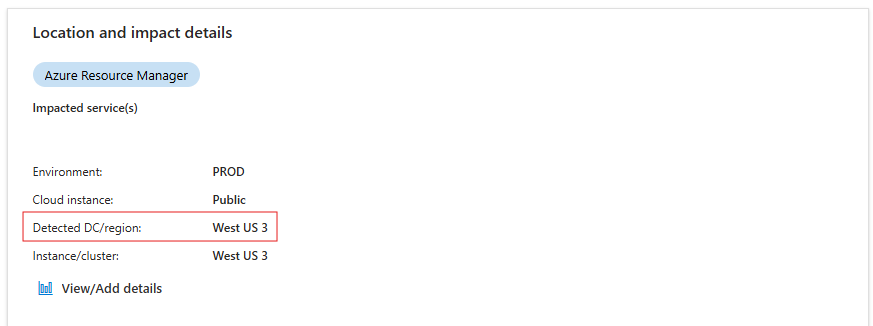
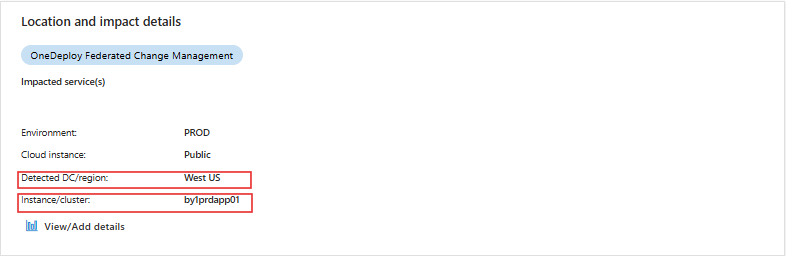
Merged PR 10603263: Updates to ICMChangeInsights for ICM Location update steps.
- Updating to provide steps for updating monitors to map location in ICM
- Updated images, fixed wordings

#### Page view by running `docfx docfx.json`
![image.png](https://msazure.visualstudio.com/b32aa71e-8ed2-41b2-9d77-5bc261222004/_apis/git/repositories/8f46fdc5-c5a3-4c9c-b3a0-dd6344227d72/pullRequests/10603263/attachments/image.png)

![image (2).png](https://msazure.visualstudio.com/b32aa71e-8ed2-41b2-9d77-5bc261222004/_apis/git/repositories/8f46fdc5-c5a3-4c9c-b3a0-dd6344227d72/pullRequests/10603263/attachments/image%20%282%29.png)

----
#### AI description  (iteration 1)
#### PR Classification
Documentation update to provide detailed steps for mapping location information in ICM.

#### PR Summary
This pull request updates the documentation to include detailed steps for mapping location information in ICM for both V1 and V2 monitors.
- Added a new guide in `MappingLocationinICM.md` for providing impacted location details in ICM.
- Removed outdated location mapping instructions from `ChangeInsights.md`.
- Updated `toc.yml` to include the new `MappingLocationinICM.md` file.

diff --git a/enghub/ICMChangeInsights/MappingLocationinICM.md b/enghub/ICMChangeInsights/MappingLocationinICM.md
@@ -1,0 +1,43 @@
+## ICM Location Attributes
+
+**Change Insights** uses the below fields in ICM incident to understand the impacted location and provide relevant changes for location.
+- <ins>*Detected DC/Region*</ins> -> to derive region, datacenter for the incident
+- <ins>*Instance/Cluster*</ins> -> to derive granular locations (like - cluster, pfEnvironment, node, tor, vm, etc.)
+
+> :construction: For each incident these fields are present under `Impact Assessment` tab -> `Location and impact details` section. </br>![alt text](media/DetectedRegionDC.png)
+
+> :rotating_light: **Change Insights** uses the most granular location provided in the above fields to show changes. <ins>Hence more granular the location, more relevant the changes will be.</ins>
+
+## Populate standard values in ICM Location Attributes for monitor raised incidents.
+
+### MDM Monitors
+
+Please follow the below steps:
+1. If the identified action item is <span style="background-color:rgb(146, 195, 83)">`NoAction`</span> or <span style="background-color:rgb(108, 184, 246)">`PendingAnalysis`</span>, then no action is required from the owning team.
+We are continuously try to increase our coverage for <span style="background-color:rgb(108, 184, 246)">`PendingAnalysis`</span> monitors to reduce the manual effort required by the owning team to investigate & update the ICM mapping.
+
[1 lines of base64/hex data omitted]
+then you need to emit/update at-least one underlying metric to contain `Region` dimension.
+Please refer to [official Geneva documentation for emitting metrics](https://eng.ms/docs/products/geneva/metrics/overview).  Then proceed to step **3** for updating the ICM Mapping on the monitor.  
+
+    > :rotating_light: Region must follow the standardized values provided here [FCM Regions](https://dataexplorer.azure.com/clusters/https%3a%2f%2ffcmdata.kusto.windows.net/databases/FCMKustoStore?query=H4sIAAAAAAAEAHPOSMxLT3WtKMjJL0otig%2fOzC3IyUzLTE3xSy0pzy%2fKDskvyM%2fJT6%2bsUSjPSC1KVfDJT04syczPC6ksSFWwtVVQKkpNB3KVeLlqFFIyi0sy85JL4Io8UwAqR0WoXwAAAA%3d%3d)
+ 
+1. If you have added a new dimension to the underlying metric of the monitor or the identified action item is <span style="background-color:rgb(255, 200, 62)">`MapMDMDimensionToICMLocation`</span>, 
+then identify which dimension in the monitor represents a standard value by going through the `MonitorDimensionMappings` column of the dashboard.
+
+    > :construction: Any dimension key-value pair which does not contain `DefaultMapping` is identified as a standard location by our system.</br>This dimension should now be correctly mapped to ICM Location Attributes while creating incidents.
+
+1. Refer to the below table to find ICM mapping configuration.
+    
+    | MDM_v1 | MDM_v2 |
+    | --- | --- |
+    | Go to section <ins>*"5. IcM Customization"*</ins> and *"Add Metadata"*. </br></br> ![alt text](media/mdm_v1_monitor_icm_mapping.png) | Got to section <ins>*"3. Customize Incident"*</ins> -> *"3.1 Incident Metadata"* and *"+Metadata"* </br></br> ![alt text](media/mdm_v2_monitor_icm_mapping.png) |
+
+1. Use the below table to map the dimension to their respective ICM Location Attributes.
+    
+    > :warning: Replace `IdentifiedDimensionKey` with the dimension key identified in step *3*.
+    
+    | ICM Location Attribute | ICM Metadata Key| Monitor Dimension | Conditions | 
+    | --- | --- | --- | --- |
+    | Detected DC/Region | Icm.OccurringLocation</br>.DataCenter | `{Monitor.Dimension.IdentifiedDimensionKey}` | If identified dimension is of type **region** or **datacenter**. |
+    | Instance/Cluster   | Icm.OccurringLocation</br>.DeviceName | `{Monitor.Dimension.IdentifiedDimensionKey}` | If identified dimension is of type cluster, node, tor, vm, etc. |

diff --git a/enghub/ICMChangeInsights/ChangeInsights.md b/enghub/ICMChangeInsights/ChangeInsights.md
@@ -64,58 +64,7 @@ The following location types are yet to be supported:
 | Cosmosdb Federation |
 
 
-## Detailed guide to provide "Where"(impacted location) in ICM
 
-### Service using EV2 (Above ARM services) for deployments
-
-#### Monitor Raised incidents -Detected DC/Region
-
-To identify the impacted region for the incident, ChangeInsights relies on Impacted Regions in ICM
-
-##### How to map MDM dimension to ICM DC/Region
-
-![alt text](media/Monitor-RegionMapping.png)
-
-#### Manually Raised incidents - Impact Region
-
-To identify the impacted region for the incident, ChangeInsights relies on Impacted Regions in ICM
-
-### Service using AzDeployer/PF (Below ARM services) for deployments
-
-Provide granular location (Cluster, node) to identify relevant changes.
-
-#### Monitor Raised incidents - specify impacted cluster
-
-To identify the impacted cluster for the incident, ChangeInsights relies on  "Instance/Cluster" field in ICM
-
-![alt text](media/InstanceCluster.png)
-
-##### How to map MDM dimension to "Instance/Cluster" field in ICM
-
-![alt text](media/Monitor-InstanceClusterMapping.png)
-
-#### Incidents - specify impacted Nddes for an incident
-
-To identify the impacted node for the incident, ChangeInsights relies on  "Instance/Cluster" field in ICM
-
-![alt text](media/InstanceCluster-Node.png)
-
-#### Manually Raised incidents - Instance/Cluster
-
-To identify the impacted cluster/node for the incident, update "Instance/Cluster" field in ICM
-
-![alt text](media/InstanceCluster.png)
-
-<!--
-
-| Onboarding Deployment Systems | Known Gaps | NFZ/CCOA | Fast pause |
-| --- | --- | --- | --- |
-| RSM SMD Guest updates | Onboarding in progress | Supported | Not Available |
-| Maintenance Orchestrator Host Updates | Onboarding in progress | Manual Coordination | Not Available |
-| AzDM Control Plane | Onboarding in progress | Supported | Not Available |
-| AKS | Onboarding in progress | Manual Coordination | Not Available |
-
--->
 
 ## Change insight availability by deployment system 
 
